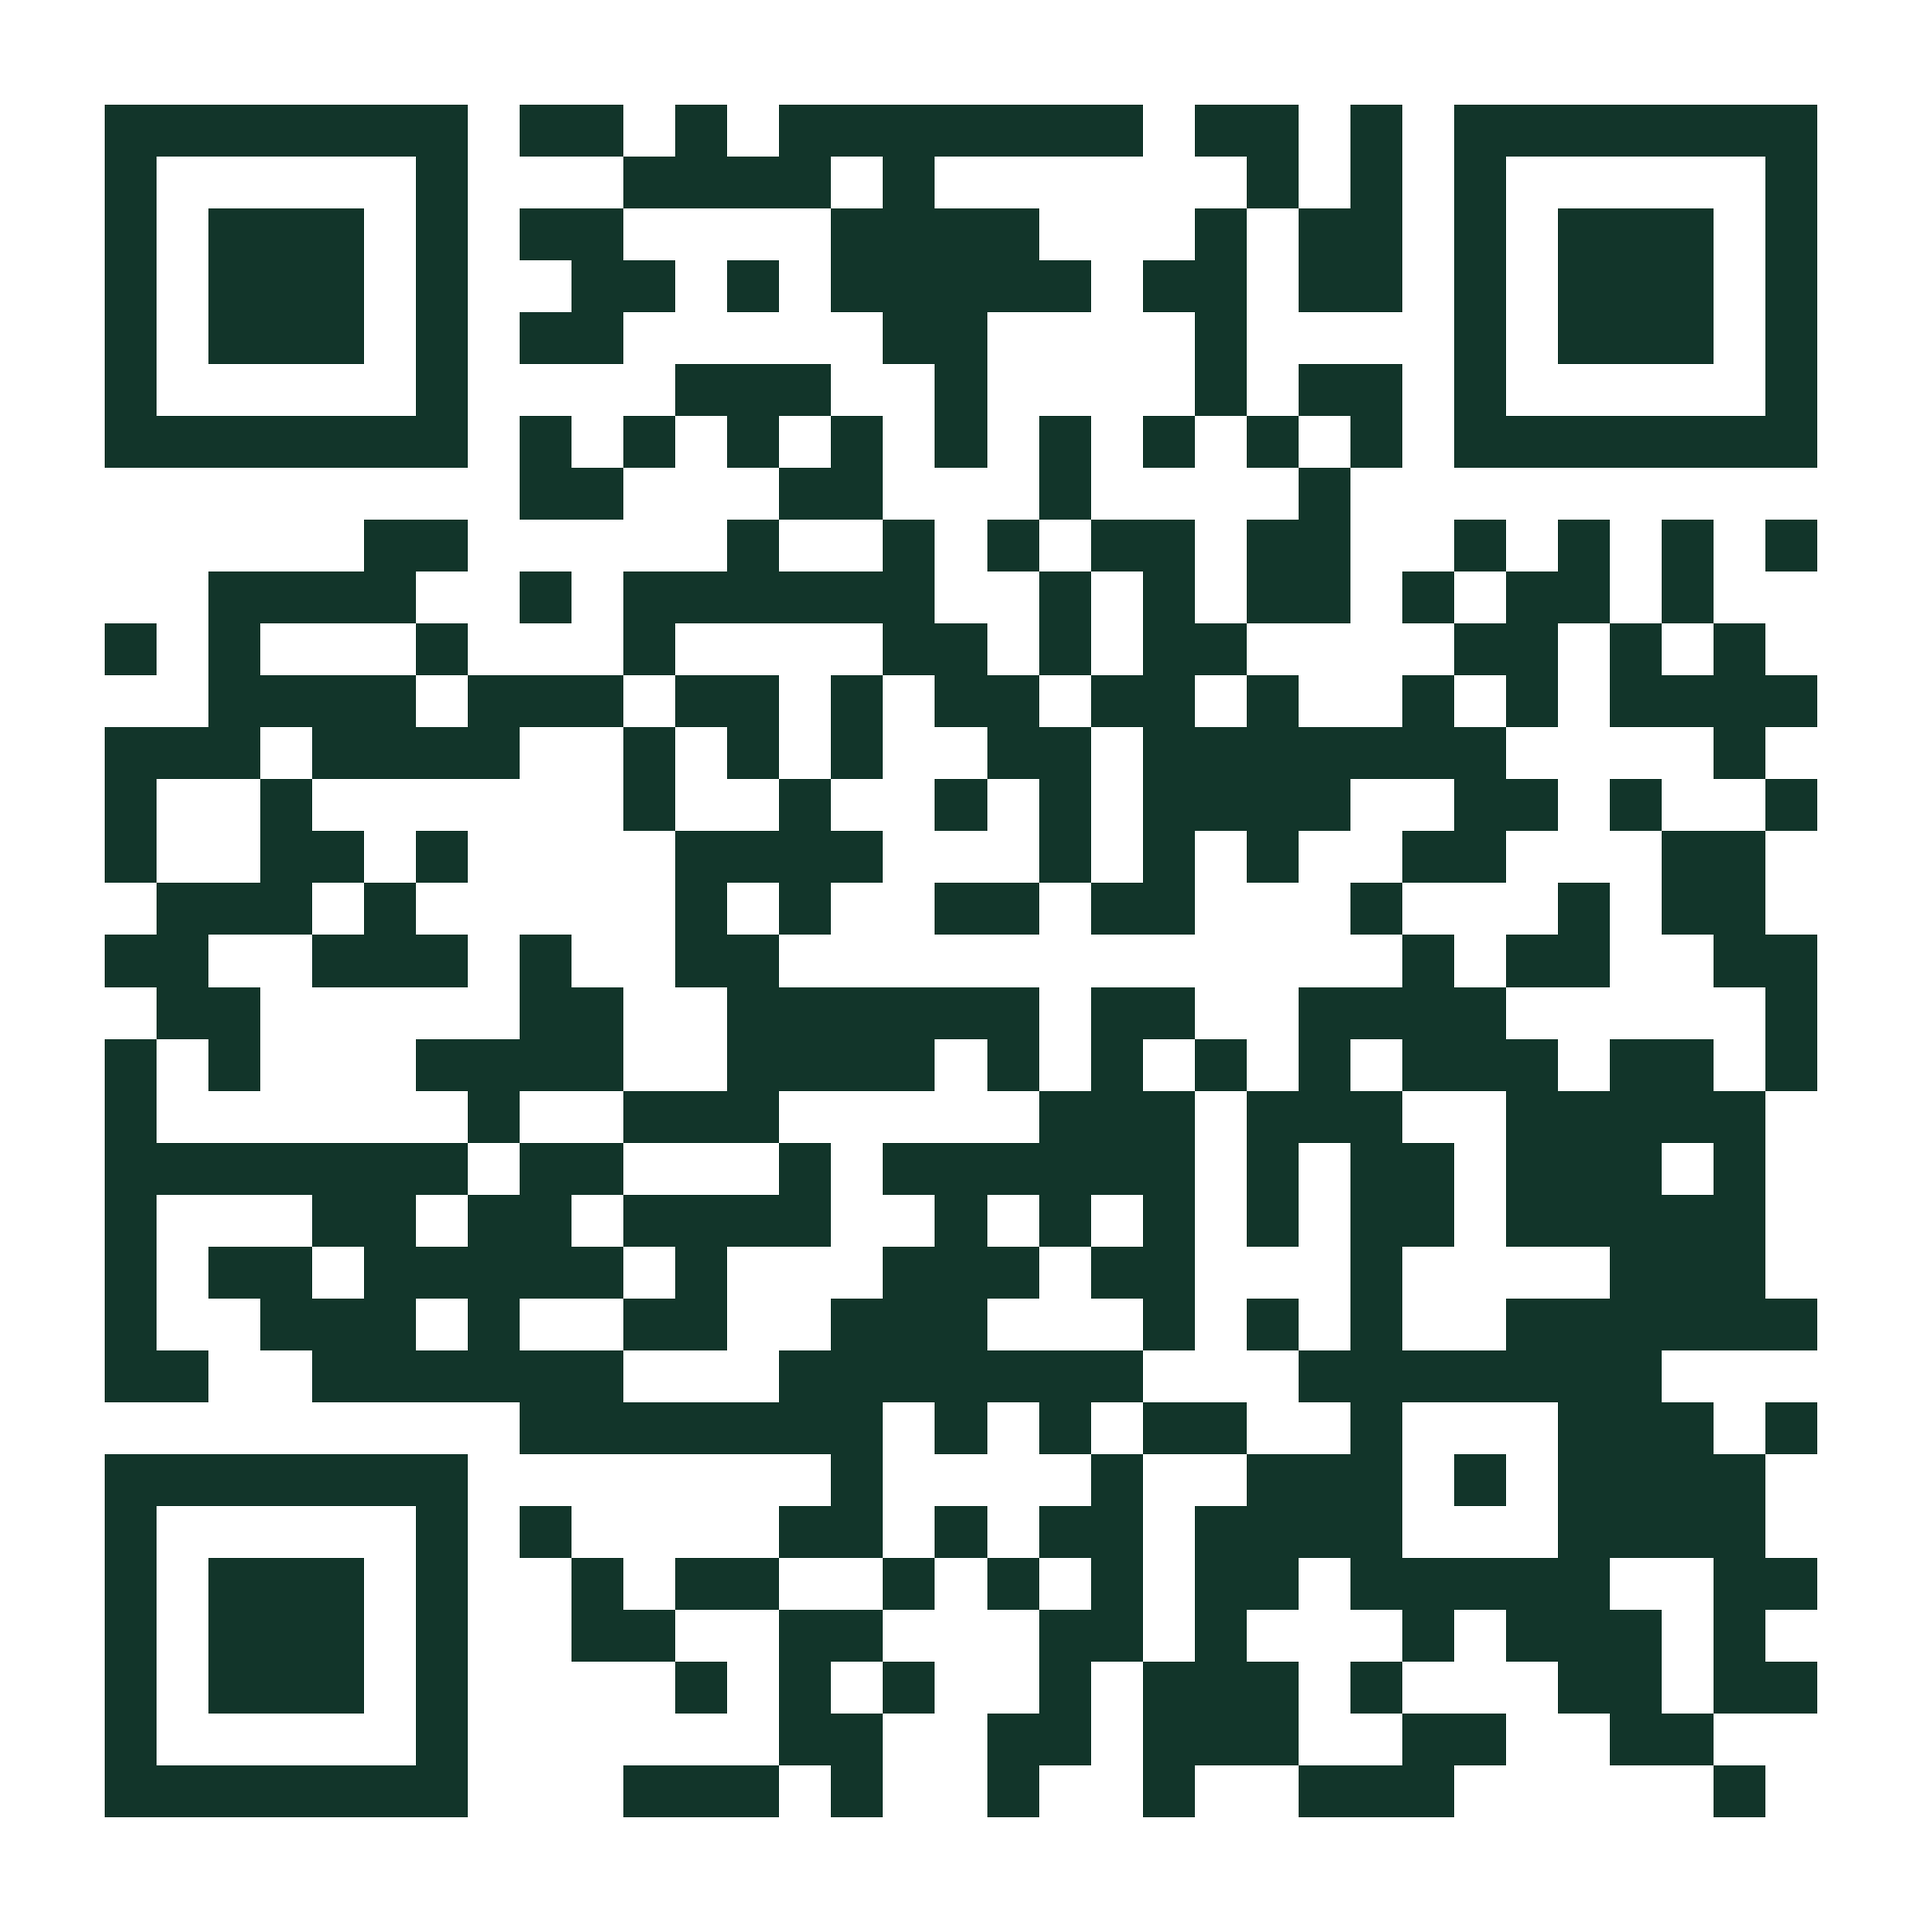
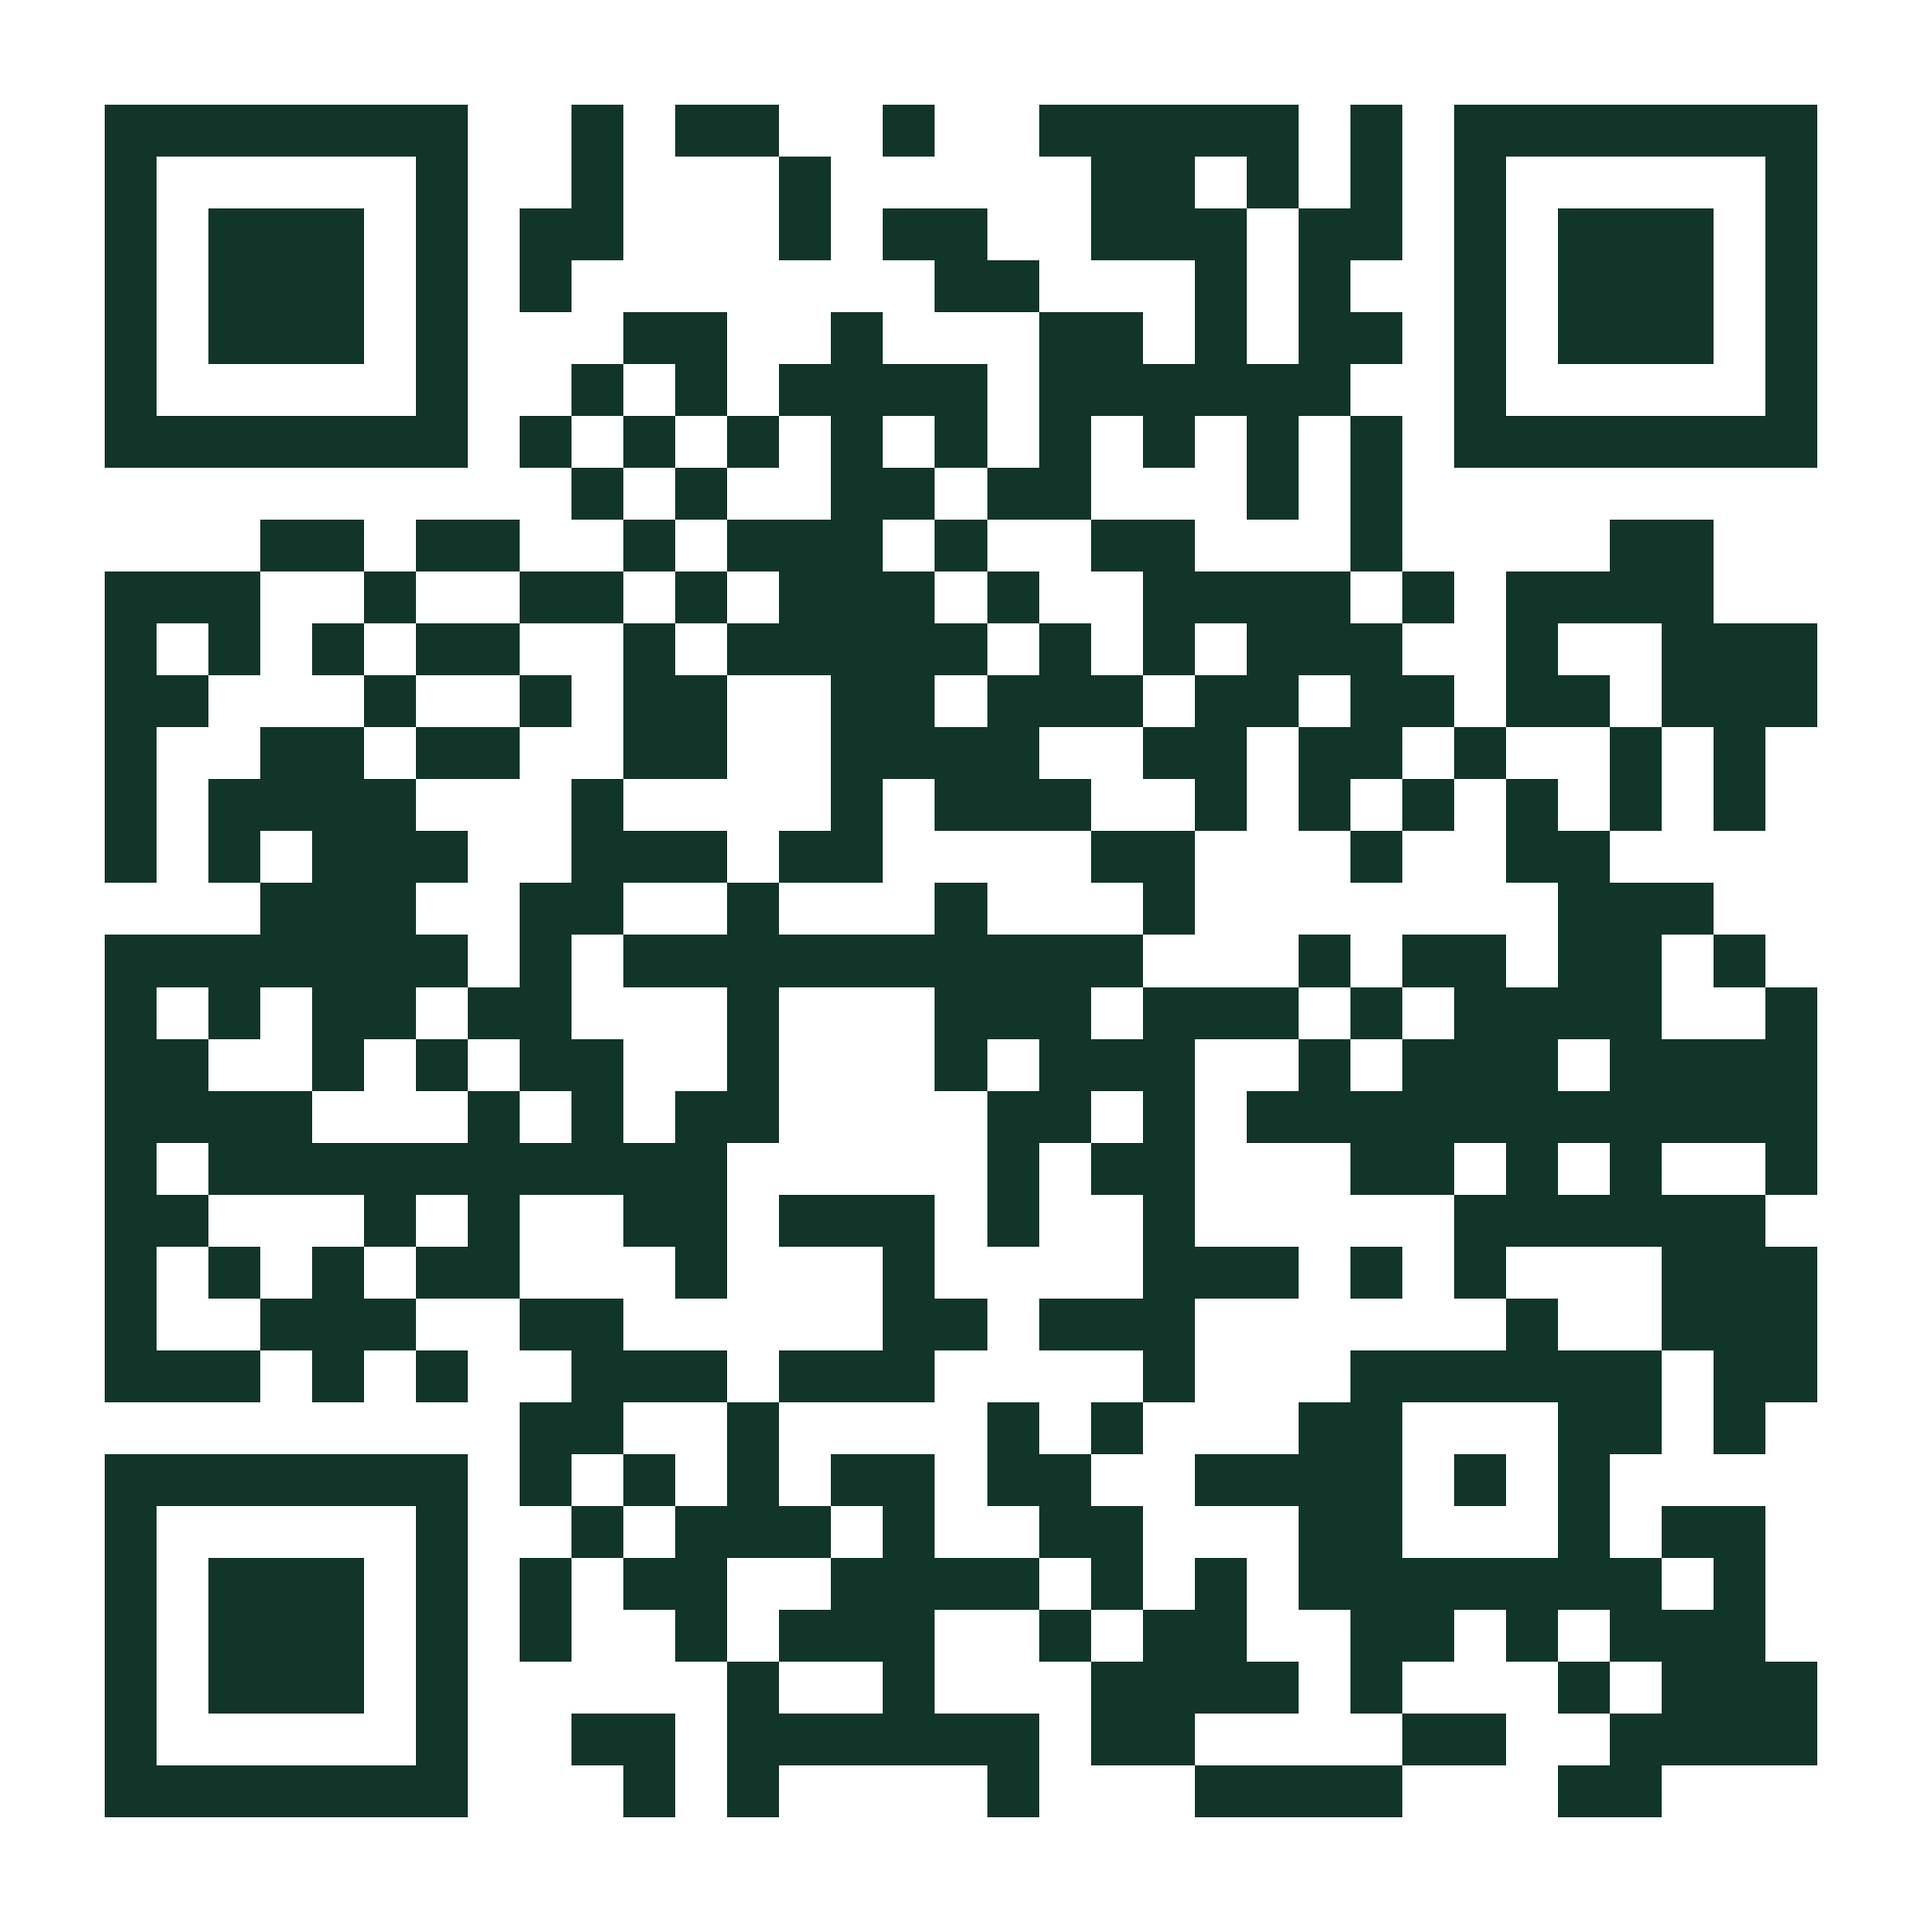
Point QR and site URL at the live domain
The QR encoded the placeholder kemi-adeosun.vercel.app (404). Update the
default site URL and regenerate the QR to the real production domain
kemiadeosun.vercel.app; verified the QR decodes to that URL.

diff --git a/src/data/profile.ts b/src/data/profile.ts
@@ -47,7 +47,7 @@ export interface FocusArea {
  *  and the vCard. Set NEXT_PUBLIC_SITE_URL in Vercel to your real domain. */
 export const SITE_URL =
   process.env.NEXT_PUBLIC_SITE_URL?.replace(/\/$/, "") ??
-  "https://kemi-adeosun.vercel.app";
+  "https://kemiadeosun.vercel.app";
 
 export const profile = {
   name: "Kemi Adeosun",
